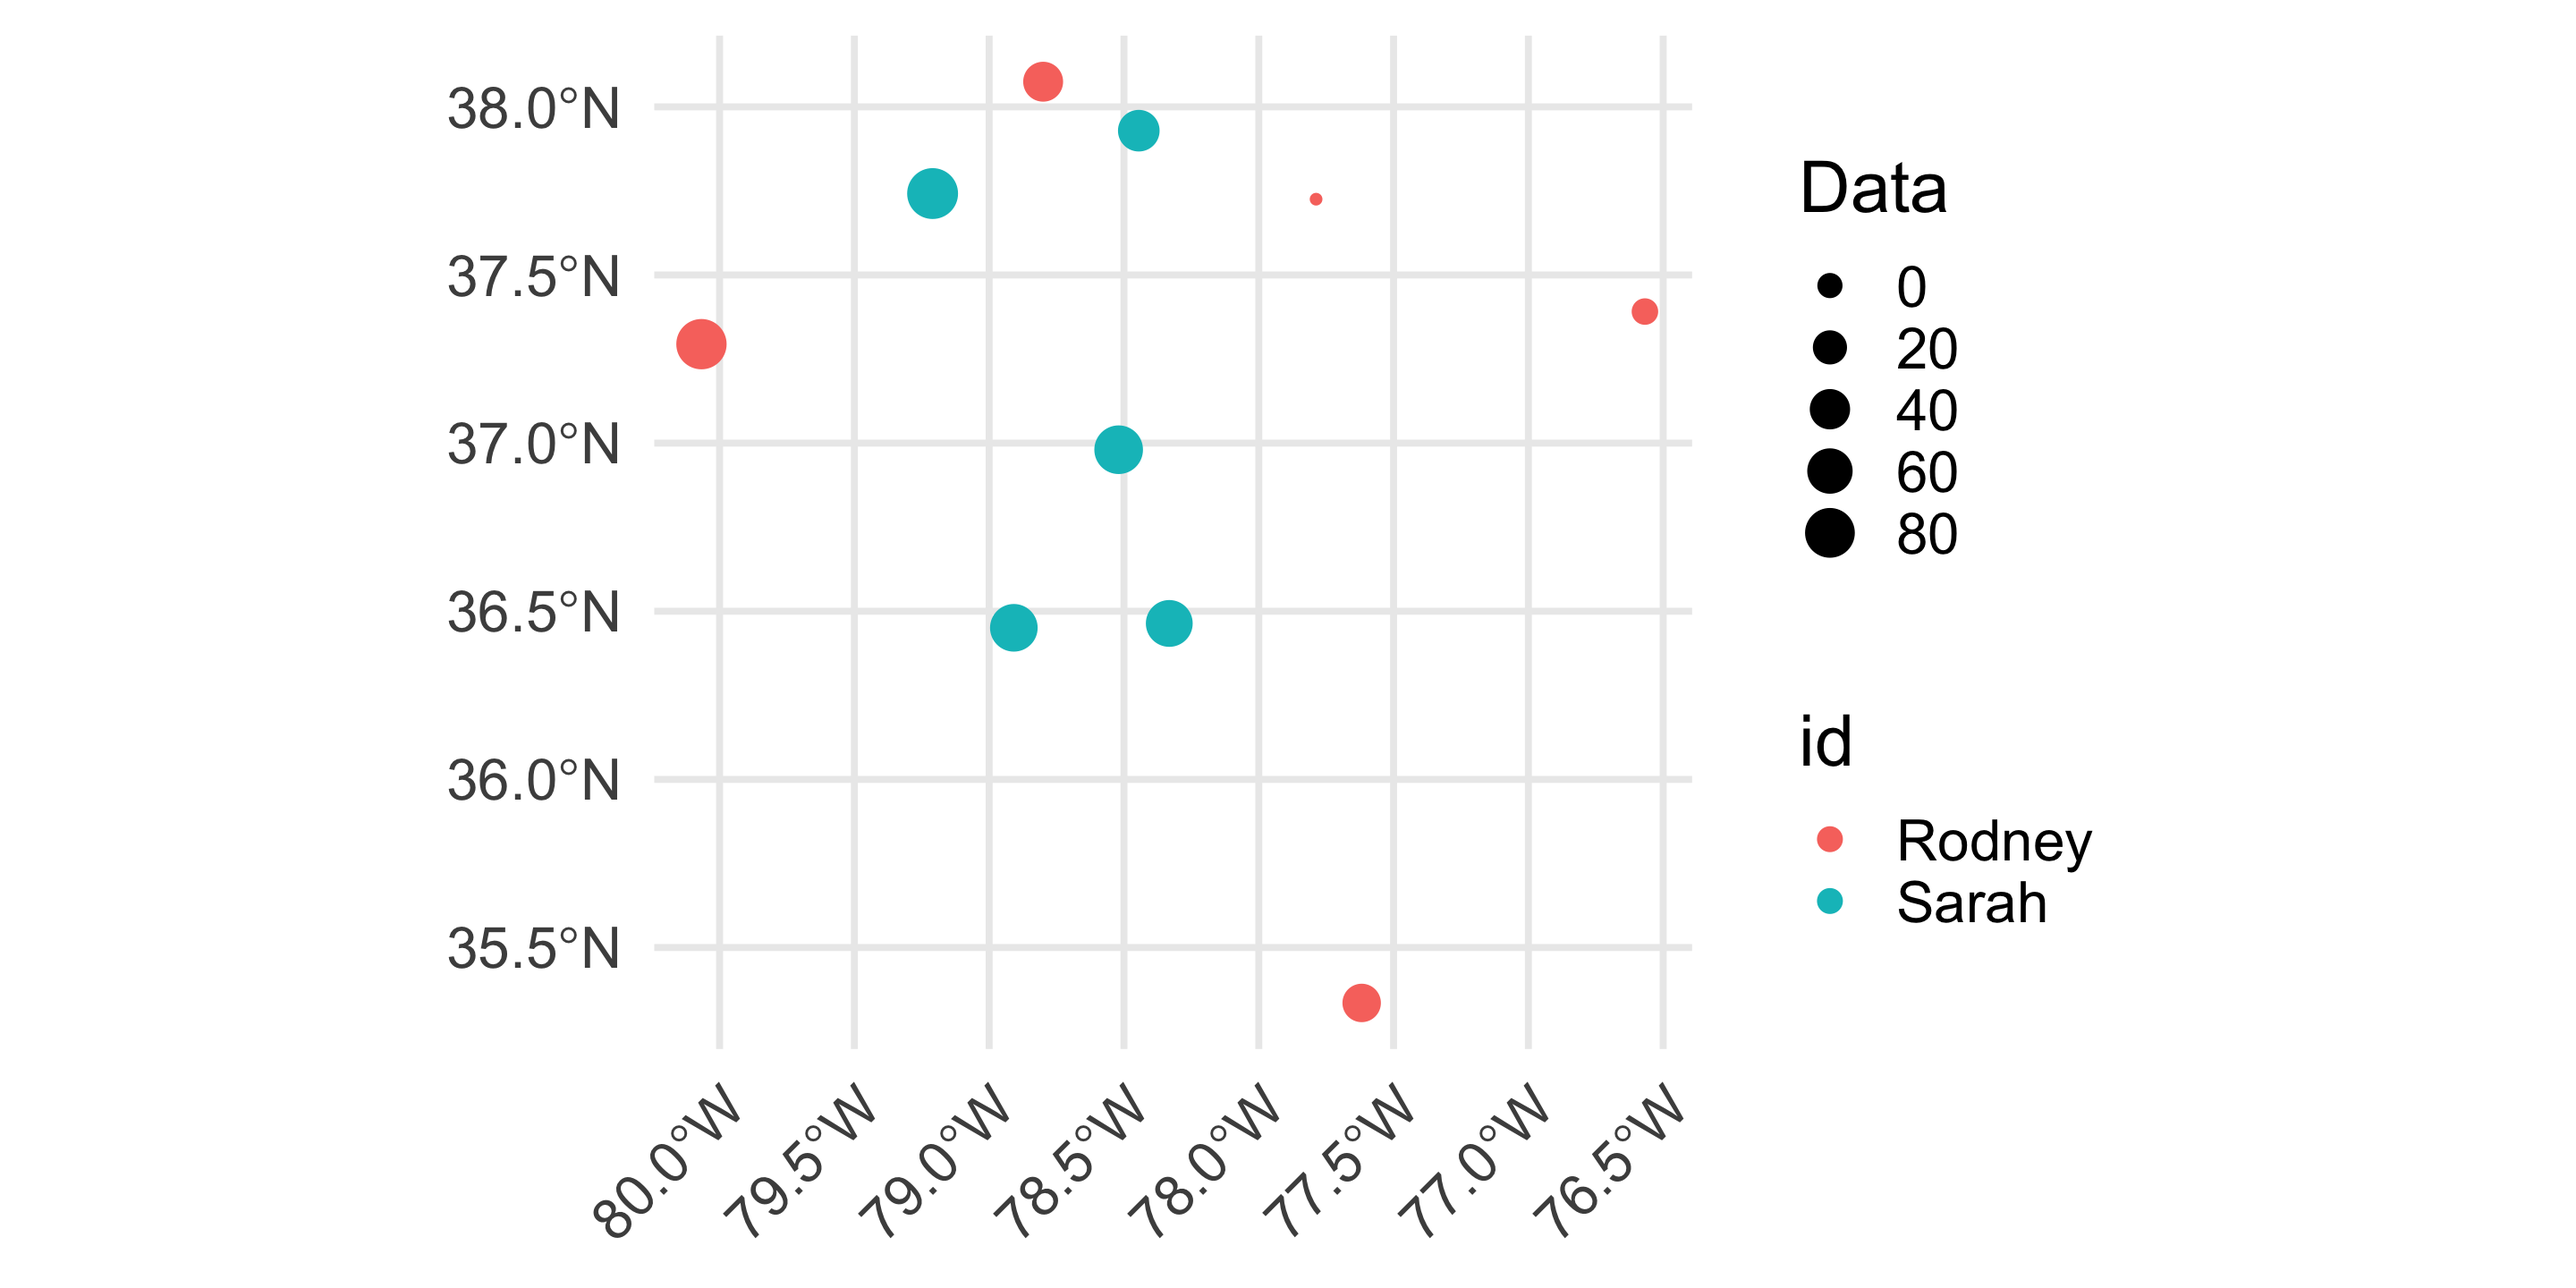
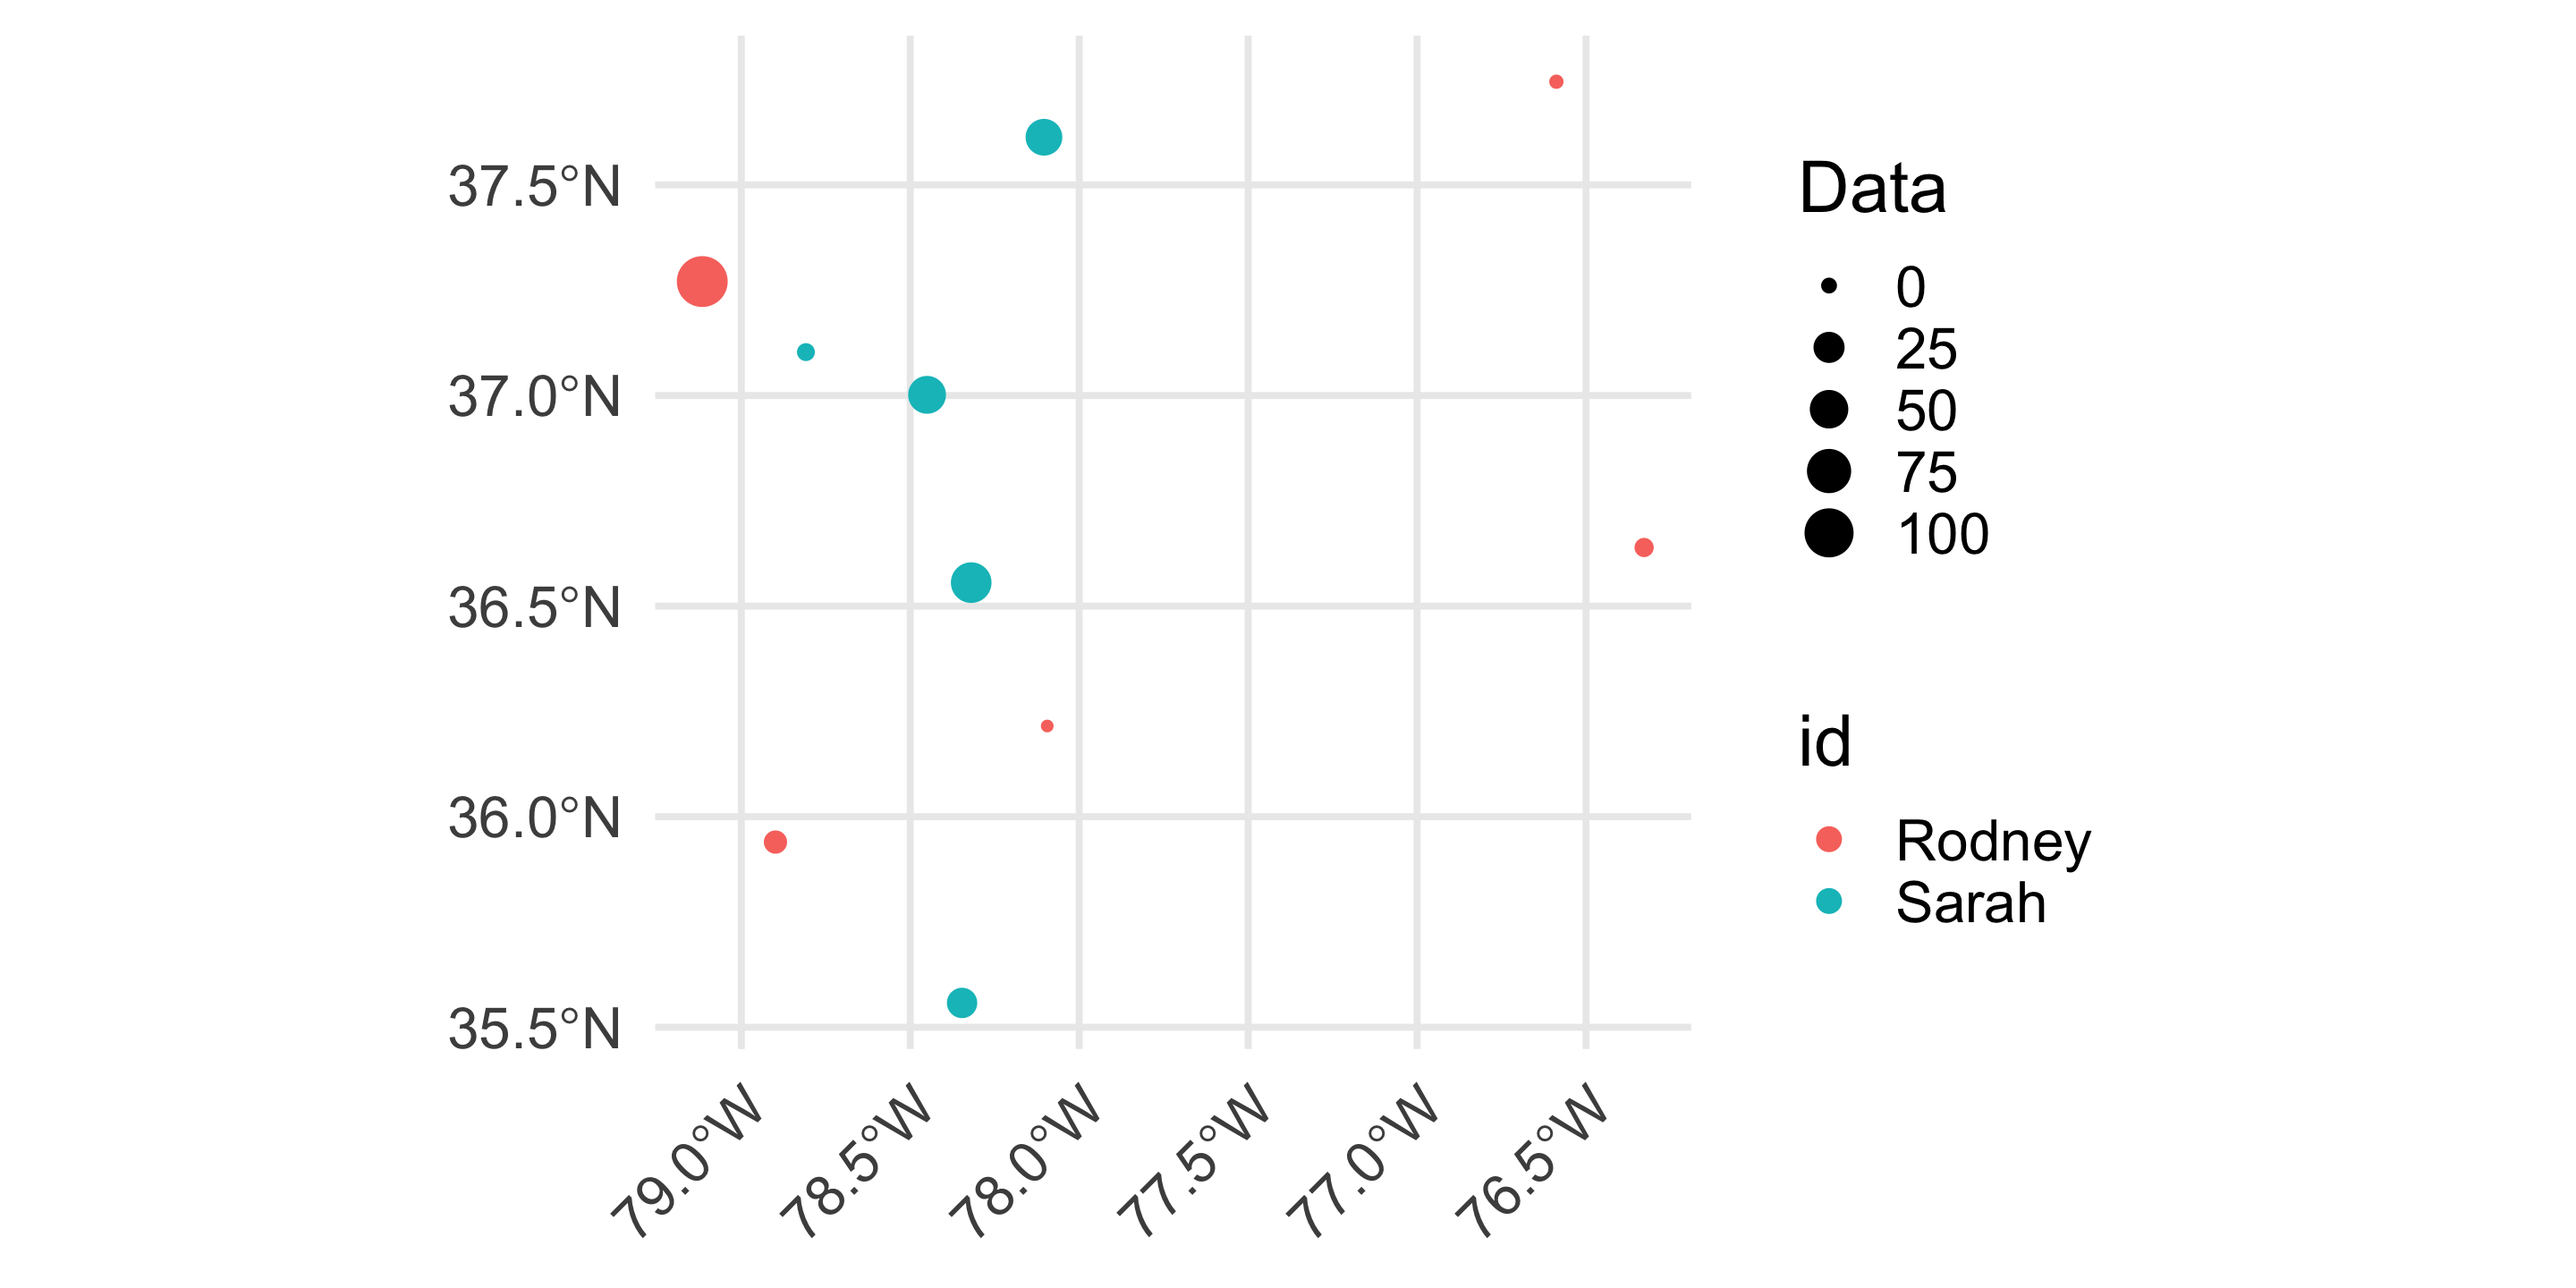
Fix homework/in-class titles, remove stray execute block, standardize gitignore
- Set proper homework.qmd title (was "Topic Homework" placeholder)
- Standardize in-class.qmd title to "In Class Activity - Shapefiles"
- Remove narrative.qmd's stray execute: echo: true block (no other
  module's narrative.qmd has one)
- Replace README-specific gitignore rules with the generic root-only
  /*.html + /*_files/ rule (keeps the module-specific RVA shapefile
  download ignores appended)
- Remove stale root-level slides_files/ (stray duplicate of docs/slides_files/)

diff --git a/docs/slides.html b/docs/slides.html
@@ -233,17 +233,17 @@ Rodney Dyer, PhD
 <span id="cb1-4"><a href=""></a>                  <span class="at">Latitude =</span> <span class="fu">rnorm</span>(<span class="dv">10</span>, <span class="dv">37</span>, <span class="dv">1</span>) )</span>
 <span id="cb1-5"><a href=""></a>df</span></code></pre></div><button title="Copy to Clipboard" class="code-copy-button"><i class="bi"></i></button></div>
 <div class="cell-output cell-output-stdout">
-<pre><code>       id       Data Longitude Latitude
-1  Rodney  38.429240 -78.79985 38.07472
-2  Rodney  33.337039 -77.61836 35.33523
-3  Rodney  82.742340 -80.06725 37.29426
-4  Rodney   2.311147 -76.56774 37.39121
-5  Rodney -10.180832 -77.78744 37.72535
-6   Sarah  66.260671 -78.33201 36.46375
-7   Sarah  69.915137 -78.90854 36.45078
-8   Sarah  44.754905 -78.44508 37.92911
-9   Sarah  74.648464 -78.51976 36.98036
-10  Sarah  85.535252 -79.20986 37.74212</code></pre>
+<pre><code>       id        Data Longitude Latitude
+1  Rodney 110.2826333 -79.11553 37.27055
+2  Rodney   2.4761741 -76.32820 36.63914
+3  Rodney   7.7068103 -78.89888 35.93974
+4  Rodney  -0.7685349 -78.09460 36.21534
+5  Rodney  -0.5731067 -76.58786 37.74505
+6   Sarah   1.3030795 -78.80871 37.10306
+7   Sarah  22.9908505 -78.34663 35.55780
+8   Sarah  43.1927189 -78.10432 37.61319
+9   Sarah  47.3939858 -78.45030 37.00163
+10  Sarah  58.7037065 -78.31963 36.55573</code></pre>
 </div>
 </div>
 </section>
@@ -258,19 +258,19 @@ Rodney Dyer, PhD
 <pre><code>Simple feature collection with 10 features and 2 fields
 Geometry type: POINT
 Dimension:     XY
-Bounding box:  xmin: -80.06725 ymin: 35.33523 xmax: -76.56774 ymax: 38.07472
+Bounding box:  xmin: -79.11553 ymin: 35.5578 xmax: -76.3282 ymax: 37.74505
 Geodetic CRS:  WGS 84
-       id       Data                   geometry
-1  Rodney  38.429240 POINT (-78.79985 38.07472)
-2  Rodney  33.337039 POINT (-77.61836 35.33523)
-3  Rodney  82.742340 POINT (-80.06725 37.29426)
-4  Rodney   2.311147 POINT (-76.56774 37.39121)
-5  Rodney -10.180832 POINT (-77.78744 37.72535)
-6   Sarah  66.260671 POINT (-78.33201 36.46375)
-7   Sarah  69.915137 POINT (-78.90854 36.45078)
-8   Sarah  44.754905 POINT (-78.44508 37.92911)
-9   Sarah  74.648464 POINT (-78.51976 36.98036)
-10  Sarah  85.535252 POINT (-79.20986 37.74212)</code></pre>
+       id        Data                   geometry
+1  Rodney 110.2826333 POINT (-79.11553 37.27055)
+2  Rodney   2.4761741  POINT (-76.3282 36.63914)
+3  Rodney   7.7068103 POINT (-78.89888 35.93974)
+4  Rodney  -0.7685349  POINT (-78.0946 36.21534)
+5  Rodney  -0.5731067 POINT (-76.58786 37.74505)
+6   Sarah   1.3030795 POINT (-78.80871 37.10306)
+7   Sarah  22.9908505  POINT (-78.34663 35.5578)
+8   Sarah  43.1927189 POINT (-78.10432 37.61319)
+9   Sarah  47.3939858  POINT (-78.4503 37.00163)
+10  Sarah  58.7037065 POINT (-78.31963 36.55573)</code></pre>
 </div>
 </div>
 </section>
@@ -321,13 +321,13 @@ Geodetic CRS:  WGS 84
 <pre><code>Simple feature collection with 2 features and 2 fields
 Geometry type: LINESTRING
 Dimension:     XY
-Bounding box:  xmin: -80.06725 ymin: 35.33523 xmax: -76.56774 ymax: 38.07472
+Bounding box:  xmin: -79.11553 ymin: 35.5578 xmax: -76.3282 ymax: 37.74505
 Geodetic CRS:  WGS 84
 # A tibble: 2 × 3
   id      Data                                                          geometry
   &lt;chr&gt;  &lt;dbl&gt;                                                  &lt;LINESTRING [°]&gt;
-1 Rodney  29.3 (-80.06725 37.29426, -77.61836 35.33523, -76.56774 37.39121, -77…
-2 Sarah   68.2 (-78.90854 36.45078, -78.33201 36.46375, -78.51976 36.98036, -79…</code></pre>
+1 Rodney  23.8 (-78.89888 35.93974, -78.0946 36.21534, -76.58786 37.74505, -79.…
+2 Sarah   34.7 (-78.34663 35.5578, -78.31963 36.55573, -78.4503 37.00163, -78.8…</code></pre>
 </div>
 </div>
 </section>
@@ -362,7 +362,7 @@ Geodetic CRS:  WGS 84
 <div class="code-copy-outer-scaffold"><div class="sourceCode cell-code" id="cb10"><pre class="sourceCode numberSource r number-lines code-with-copy"><code class="sourceCode r"><span id="cb10-1"><a href=""></a><span class="fu">st_length</span>( lines )</span></code></pre></div><button title="Copy to Clipboard" class="code-copy-button"><i class="bi"></i></button></div>
 <div class="cell-output cell-output-stdout">
 <pre><code>Units: [m]
-[1] 767075.0 286096.4</code></pre>
+[1] 781470.2 279890.2</code></pre>
 </div>
 </div>
 <div class="fragment">
@@ -371,7 +371,7 @@ Geodetic CRS:  WGS 84
 <div class="code-copy-outer-scaffold"><div class="sourceCode cell-code" id="cb12"><pre class="sourceCode numberSource r number-lines code-with-copy"><code class="sourceCode r"><span id="cb12-1"><a href=""></a><span class="fu">st_bbox</span>( lines )</span></code></pre></div><button title="Copy to Clipboard" class="code-copy-button"><i class="bi"></i></button></div>
 <div class="cell-output cell-output-stdout">
 <pre><code>     xmin      ymin      xmax      ymax 
--80.06725  35.33523 -76.56774  38.07472 </code></pre>
+-79.11553  35.55780 -76.32820  37.74505 </code></pre>
 </div>
 </div>
 <div class="fragment">
@@ -384,7 +384,7 @@ Geodetic CRS:  WGS 84
 <span id="cb14-5"><a href=""></a>  <span class="fu">st_area</span>() <span class="sc">%&gt;%</span></span>
 <span id="cb14-6"><a href=""></a>  <span class="fu">set_units</span>( km<span class="sc">^</span><span class="dv">2</span> )</span></code></pre></div><button title="Copy to Clipboard" class="code-copy-button"><i class="bi"></i></button></div>
 <div class="cell-output cell-output-stdout">
-<pre><code>47673.25 [km^2]</code></pre>
+<pre><code>40750.81 [km^2]</code></pre>
 </div>
 </div>
 </div>
@@ -396,7 +396,7 @@ Geodetic CRS:  WGS 84
 <div class="cell" data-layout-align="center">
 <div class="code-copy-outer-scaffold"><div class="sourceCode cell-code" id="cb16"><pre class="sourceCode numberSource r number-lines code-with-copy"><code class="sourceCode r"><span id="cb16-1"><a href=""></a>lines<span class="sc">$</span>geometry[<span class="dv">1</span>] <span class="sc">%&gt;%</span> <span class="fu">st_as_text</span>()</span></code></pre></div><button title="Copy to Clipboard" class="code-copy-button"><i class="bi"></i></button></div>
 <div class="cell-output cell-output-stdout">
-<pre><code>[1] "LINESTRING (-80.06725 37.29426, -77.61836 35.33523, -76.56774 37.39121, -77.78744 37.72535, -78.79985 38.07472)"</code></pre>
+<pre><code>[1] "LINESTRING (-78.89888 35.93974, -78.0946 36.21534, -76.58786 37.74505, -79.11553 37.27055, -76.3282 36.63914)"</code></pre>
 </div>
 </div>
 </section></section>
@@ -412,19 +412,19 @@ Geodetic CRS:  WGS 84
 <div class="code-copy-outer-scaffold"><div class="sourceCode cell-code" id="cb18"><pre class="sourceCode numberSource r number-lines code-with-copy"><code class="sourceCode r"><span id="cb18-1"><a href=""></a>df.p <span class="ot">&lt;-</span> df[ <span class="fu">c</span>(<span class="dv">1</span><span class="sc">:</span><span class="dv">5</span>,<span class="dv">1</span>, <span class="dv">6</span><span class="sc">:</span><span class="dv">10</span>,<span class="dv">6</span>),]</span>
 <span id="cb18-2"><a href=""></a>df.p</span></code></pre></div><button title="Copy to Clipboard" class="code-copy-button"><i class="bi"></i></button></div>
 <div class="cell-output cell-output-stdout">
-<pre><code>        id       Data Longitude Latitude
-1   Rodney  38.429240 -78.79985 38.07472
-2   Rodney  33.337039 -77.61836 35.33523
-3   Rodney  82.742340 -80.06725 37.29426
-4   Rodney   2.311147 -76.56774 37.39121
-5   Rodney -10.180832 -77.78744 37.72535
-1.1 Rodney  38.429240 -78.79985 38.07472
-6    Sarah  66.260671 -78.33201 36.46375
-7    Sarah  69.915137 -78.90854 36.45078
-8    Sarah  44.754905 -78.44508 37.92911
-9    Sarah  74.648464 -78.51976 36.98036
-10   Sarah  85.535252 -79.20986 37.74212
-6.1  Sarah  66.260671 -78.33201 36.46375</code></pre>
+<pre><code>        id        Data Longitude Latitude
+1   Rodney 110.2826333 -79.11553 37.27055
+2   Rodney   2.4761741 -76.32820 36.63914
+3   Rodney   7.7068103 -78.89888 35.93974
+4   Rodney  -0.7685349 -78.09460 36.21534
+5   Rodney  -0.5731067 -76.58786 37.74505
+1.1 Rodney 110.2826333 -79.11553 37.27055
+6    Sarah   1.3030795 -78.80871 37.10306
+7    Sarah  22.9908505 -78.34663 35.55780
+8    Sarah  43.1927189 -78.10432 37.61319
+9    Sarah  47.3939858 -78.45030 37.00163
+10   Sarah  58.7037065 -78.31963 36.55573
+6.1  Sarah   1.3030795 -78.80871 37.10306</code></pre>
 </div>
 </div>
 </section>
@@ -446,13 +446,13 @@ Geodetic CRS:  WGS 84
 <pre><code>Simple feature collection with 2 features and 2 fields
 Geometry type: POLYGON
 Dimension:     XY
-Bounding box:  xmin: -80.06725 ymin: 35.33523 xmax: -76.56774 ymax: 38.07472
+Bounding box:  xmin: -79.11553 ymin: 35.5578 xmax: -76.3282 ymax: 37.74505
 Geodetic CRS:  WGS 84
 # A tibble: 2 × 3
   id      Data                                                          geometry
   &lt;chr&gt;  &lt;dbl&gt;                                                     &lt;POLYGON [°]&gt;
-1 Rodney  29.3 ((-80.06725 37.29426, -77.61836 35.33523, -76.56774 37.39121, -7…
-2 Sarah   68.2 ((-78.90854 36.45078, -78.33201 36.46375, -78.51976 36.98036, -7…</code></pre>
+1 Rodney  23.8 ((-78.89888 35.93974, -78.0946 36.21534, -76.58786 37.74505, -79…
+2 Sarah   34.7 ((-78.34663 35.5578, -78.31963 36.55573, -78.4503 37.00163, -78.…</code></pre>
 </div>
 </div>
 </section>

diff --git a/docs/in-class.html b/docs/in-class.html
@@ -7,7 +7,7 @@
 <meta name="viewport" content="width=device-width, initial-scale=1.0, user-scalable=yes">
 
 
-<title>Shapefile In Class Activity</title>
+<title>In Class Activity - Shapefiles</title>
 <style>
 /* Default styles provided by pandoc.
 ** See https://pandoc.org/MANUAL.html#variables-for-html for config info.
@@ -84,7 +84,7 @@ pre > code.sourceCode > span > a:first-child::before { text-decoration: underlin
 
 <header id="title-block-header" class="quarto-title-block default">
 <div class="quarto-title">
-<h1 class="title">Shapefile In Class Activity</h1>
+<h1 class="title">In Class Activity - Shapefiles</h1>
 </div>
 
 

diff --git a/docs/homework.html b/docs/homework.html
@@ -8,7 +8,7 @@
 
 <meta name="author" content="YOUR NAME HERE">
 
-<title>Topic Homework</title>
+<title>Shapefiles Homework</title>
 <style>
 /* Default styles provided by pandoc.
 ** See https://pandoc.org/MANUAL.html#variables-for-html for config info.
@@ -85,7 +85,7 @@ pre > code.sourceCode > span > a:first-child::before { text-decoration: underlin
 
 <header id="title-block-header" class="quarto-title-block default">
 <div class="quarto-title">
-<h1 class="title">Topic Homework</h1>
+<h1 class="title">Shapefiles Homework</h1>
 </div>
 
 
